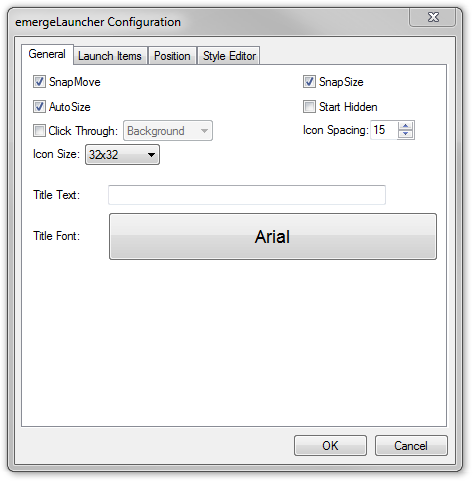
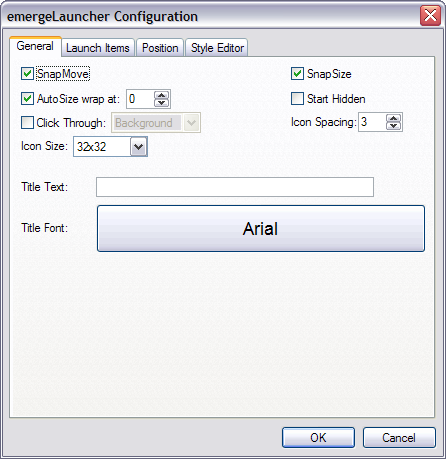
Updated for 6.1.

Changed region(s): [[0.0, 0.0, 1.0, 1.0]]

diff --git a/Documentation/emergeTray.html b/Documentation/emergeTray.html
@@ -2,7 +2,8 @@
 <html>
     <head>
         <title>emergeTray</title>
-        <link rel = StyleSheet type = "text/css" HREF = "../../emerge.css"></head>
+        <link rel = StyleSheet type = "text/css" HREF = "../../emerge.css">
+    </head>
 <body>
 <table bgcolor="#7f907f" cellpadding="5" cellspacing="0" width="100%">
     <tr>
@@ -29,7 +30,7 @@ emergeTray is the 'system tray' applet of Emerge Desktop. It displays the system
 <p><img src="TrayConfig1.png" width="446" height="459"></p>
 <p><strong>SnapMove</strong> makes the window snap to the edges of other applets' windows or the edges of the screen when moving it.</p>
 <p><strong>SnapSize</strong> makes the window snap to the edges of other applets' windows or the edges of the screen when changing its size.</p>
-<p><strong>AutoSize</strong> keeps the window to a minimum size around the icons. Its size can no longer be changed by dragging an edge while pressing the Alt key.</p>
+<p><strong>AutoSize</strong> keeps the window to a minimum size around the icons. A number may be entered after <strong>wrap at</strong> to specify the amount of icons per row or column (depending on <strong>Orientation</strong> in <strong>Position</strong> tab). The size of the window can no longer be changed by dragging an edge while pressing the Alt key.</p>
 <p><strong>Click Through</strong> allows clicking &quot;through&quot; the window (i.e. allows clicking on whatever is behind it). It has two modes: <strong>Full</strong> (the whole window is &quot;transparent&quot; to mouse input), or <strong>Background</strong> (only the background area is &quot;transparent&quot; but the user can click on the icons in emergeTray, emergeTasks, emergeLauncher, the text in emergeCommand, emergePower, the active mini-window in emergeVWM, the graphs in emergeSysMon). </p>
 <p><u>Important notes</u>: 1) <strong>Full Click Through </strong>works for any level of opacity, from opaque to fully transparent; 2) <strong>Background Click Through </strong>automatically sets the background to transparent but does not change the style, this is a known limitation; 3) To manipulate an applet set on <strong>Full Click Through, </strong>the user must press the Shift key: Shift+Ctrl+LeftClick to move the applet, Shift+Ctrl+RightClick to get the configuration menu and Shift+Alt to resize the applet.</p>
 <p><strong>Icon Spacing</strong> defines the spacing in pixels between adjacent icons.</p>

diff --git a/Documentation/emergeTasks.html b/Documentation/emergeTasks.html
@@ -30,7 +30,7 @@
 <p><strong>SnapMove</strong> makes the window snap to the edges of other applets' windows or the edges of the screen when moving it.</p>
 
 <p><strong>SnapSize</strong> makes the window snap to the edges of other applets' windows or the edges of the screen when changing its size.</p>
-<p><strong>AutoSize</strong> keeps the window to a minimum size around the icons. Its size can no longer be changed by dragging an edge while pressing the Alt key.</p>
+<p><strong>AutoSize</strong> keeps the window to a minimum size around the icons. A number may be entered after <strong>wrap at</strong> to specify the amount of icons per row or column (depending on <strong>Orientation</strong> in <strong>Position</strong> tab). The size of the window can no longer be changed by dragging an edge while pressing the Alt key.</p>
 <p><strong>Highlight Active Task</strong> sets the background of the active program's icon with the &quot;Selected&quot; opacity and color in the <a href="Styles.html">Style Editor</a> tab.</p>
 <p><strong>Click Through</strong> allows clicking &quot;through&quot; the window (i.e. allows clicking on whatever is behind it). It has two modes: <strong>Full</strong> (the whole window is &quot;transparent&quot; to mouse input), or <strong>Background</strong> (only the background area is &quot;transparent&quot; but the user can click on the icons in emergeTray, emergeTasks, emergeLauncher, the text in emergeCommand, emergePower, the active mini-window in emergeVWM, the graphs in emergeSysMon). </p>
 <p><u>Important notes</u>: 1) <strong>Full Click Through </strong>works for any level of opacity, from opaque to fully transparent; 2) <strong>Background Click Through </strong>automatically sets the background to transparent but does not change the style, this is a known limitation; 3) To manipulate an applet set on <strong>Full Click Through, </strong>the user must press the Shift key: Shift+Ctrl+LeftClick to move the applet, Shift+Ctrl+RightClick to get the configuration menu and Shift+Alt to resize the applet.</p>

diff --git a/Documentation/emergeLauncher.html b/Documentation/emergeLauncher.html
@@ -33,7 +33,7 @@ emergeLauncher provides a &quot;Quick Launch&quot; applet for Emerge Desktop.  I
 <p><img src="LauncherConfig1.png" width="473" height="481"></p>
 <p><strong>SnapMove</strong> makes the window snap to the edges of other applets' windows or the edges of the screen when moving it.</p>
 <p><strong>SnapSize</strong> makes the window snap to the edges of other applets' windows or the edges of the screen when changing its size.</p>
-<p><strong>AutoSize</strong> keeps the window to a minimum size around the icons. Its size can no longer be changed by dragging an edge while pressing the Alt key.</p>
+<p><strong>AutoSize</strong> keeps the window to a minimum size around the icons. A number may be entered after <strong>wrap at</strong> to specify the amount of icons per row or column (depending on <strong>Orientation</strong> in <strong>Position</strong> tab). The size of the window can no longer be changed by dragging an edge while pressing the Alt key.</p>
 <p style="margin-bottom: 0;"><strong>Start Hidden </strong>will keep the emergeLauncher  window hidden starting after the next reboot. The visibility of one applet can be toggled with ShowApplet internal command, see that <a href="internal.html">page</a> for details.</p>
 <p style="margin-top: 0; margin-bottom: 0;"><strong></strong></p>
 <p style="margin-top: 0;"><strong>Click Through</strong> allows clicking &quot;through&quot; the window (i.e. allows clicking on whatever is behind it). It has two modes: <strong>Full</strong> (the whole window is &quot;transparent&quot; to mouse input), or <strong>Background</strong> (only the background area is &quot;transparent&quot; but the user can click on the icons in emergeTray, emergeTasks, emergeLauncher, the text in emergeCommand, emergePower, the active mini-window in emergeVWM, the graphs in emergeSysMon). </p>

diff --git a/Documentation/whatsnew.html b/Documentation/whatsnew.html
@@ -9,6 +9,16 @@
         <table bgcolor="#7f907f" cellpadding="5" cellspacing="0" width="100%">
             <tr><td><font color="white"><b>What's New / History</b></font></td></tr></table>
 
+        <p><b>v6.1 (June 19th, 2012)</b></p>
+        <b>New:</b>
+        <ul>
+            <li>AutoSize 'wrap at' to allow limiting the number of icons per row/column when autosize is enabled</li>
+        </ul>
+        <b>Fixed:</b>
+        <ul>
+            <li>Fixed regressing in emergeHotkeys where other non-Emerge hotkeys would not behave properly</li>
+        </ul>
+        <br>
         <p><b>v6.0 (June 8th, 2012)</b></p>
         <b>New:</b>
         <ul>
